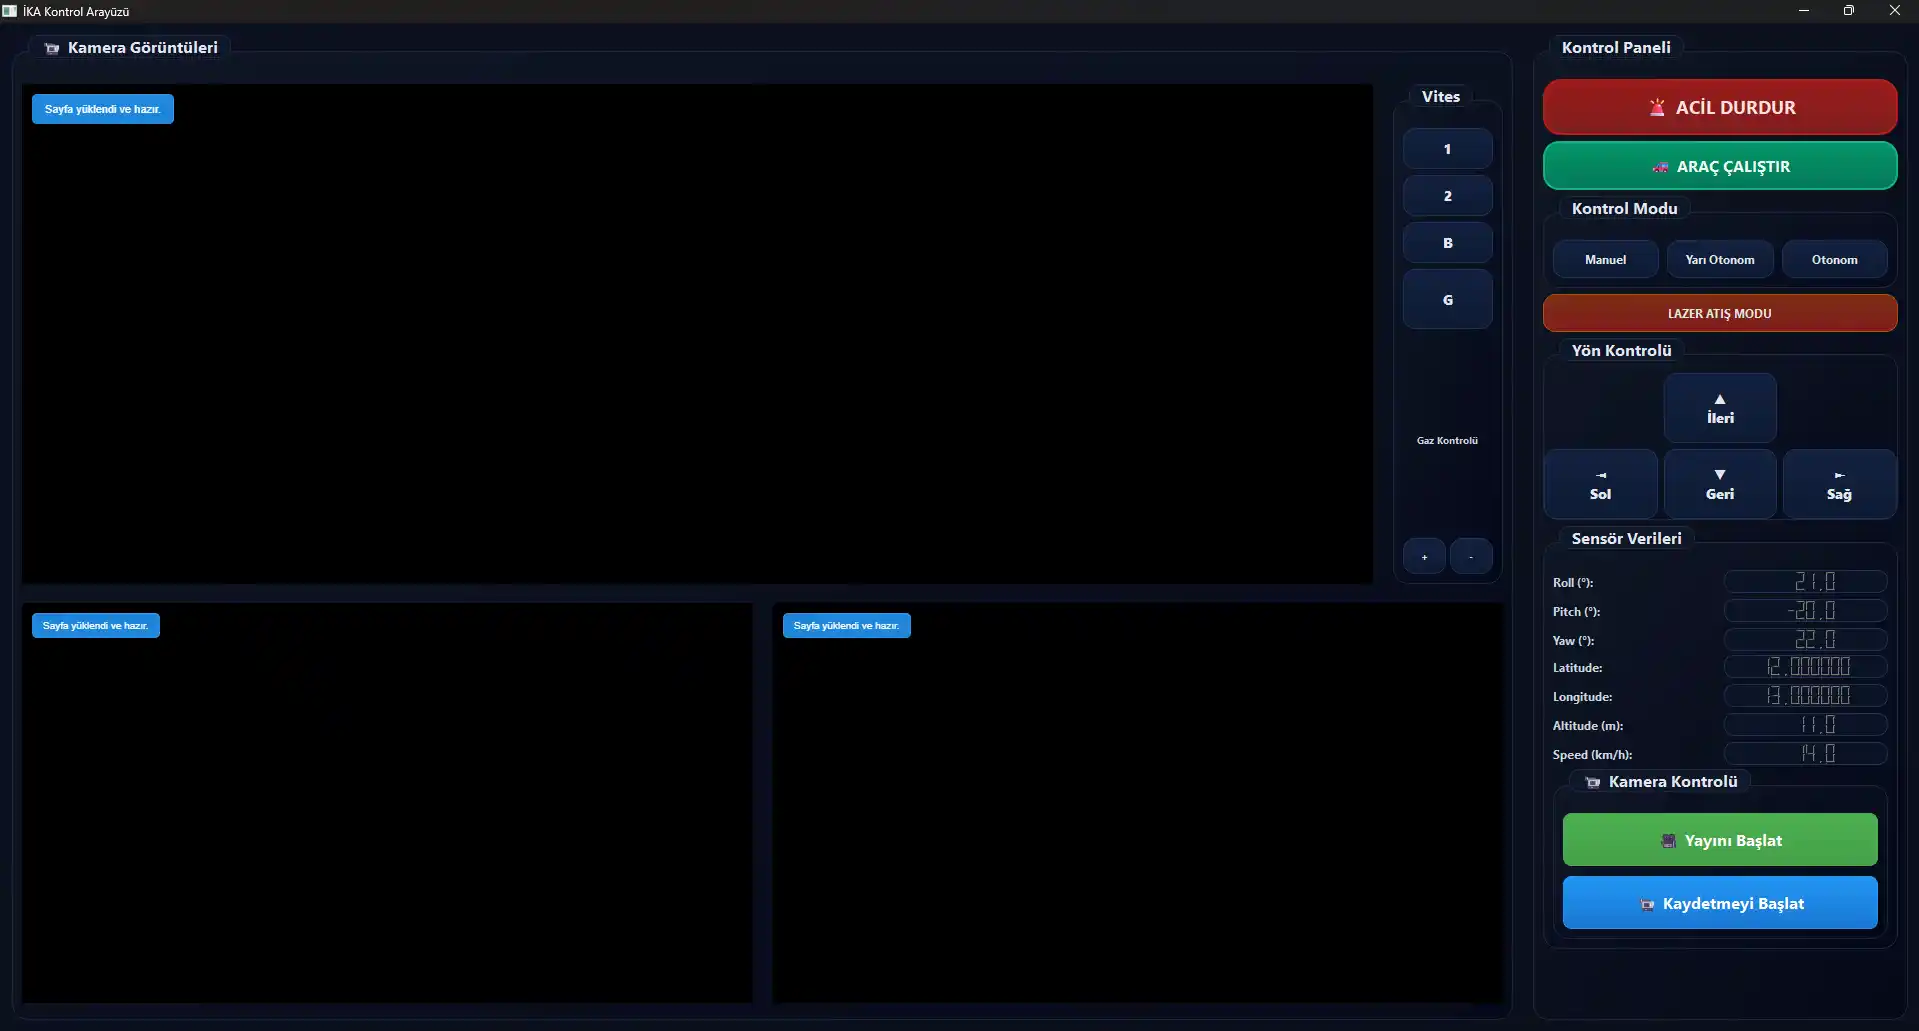
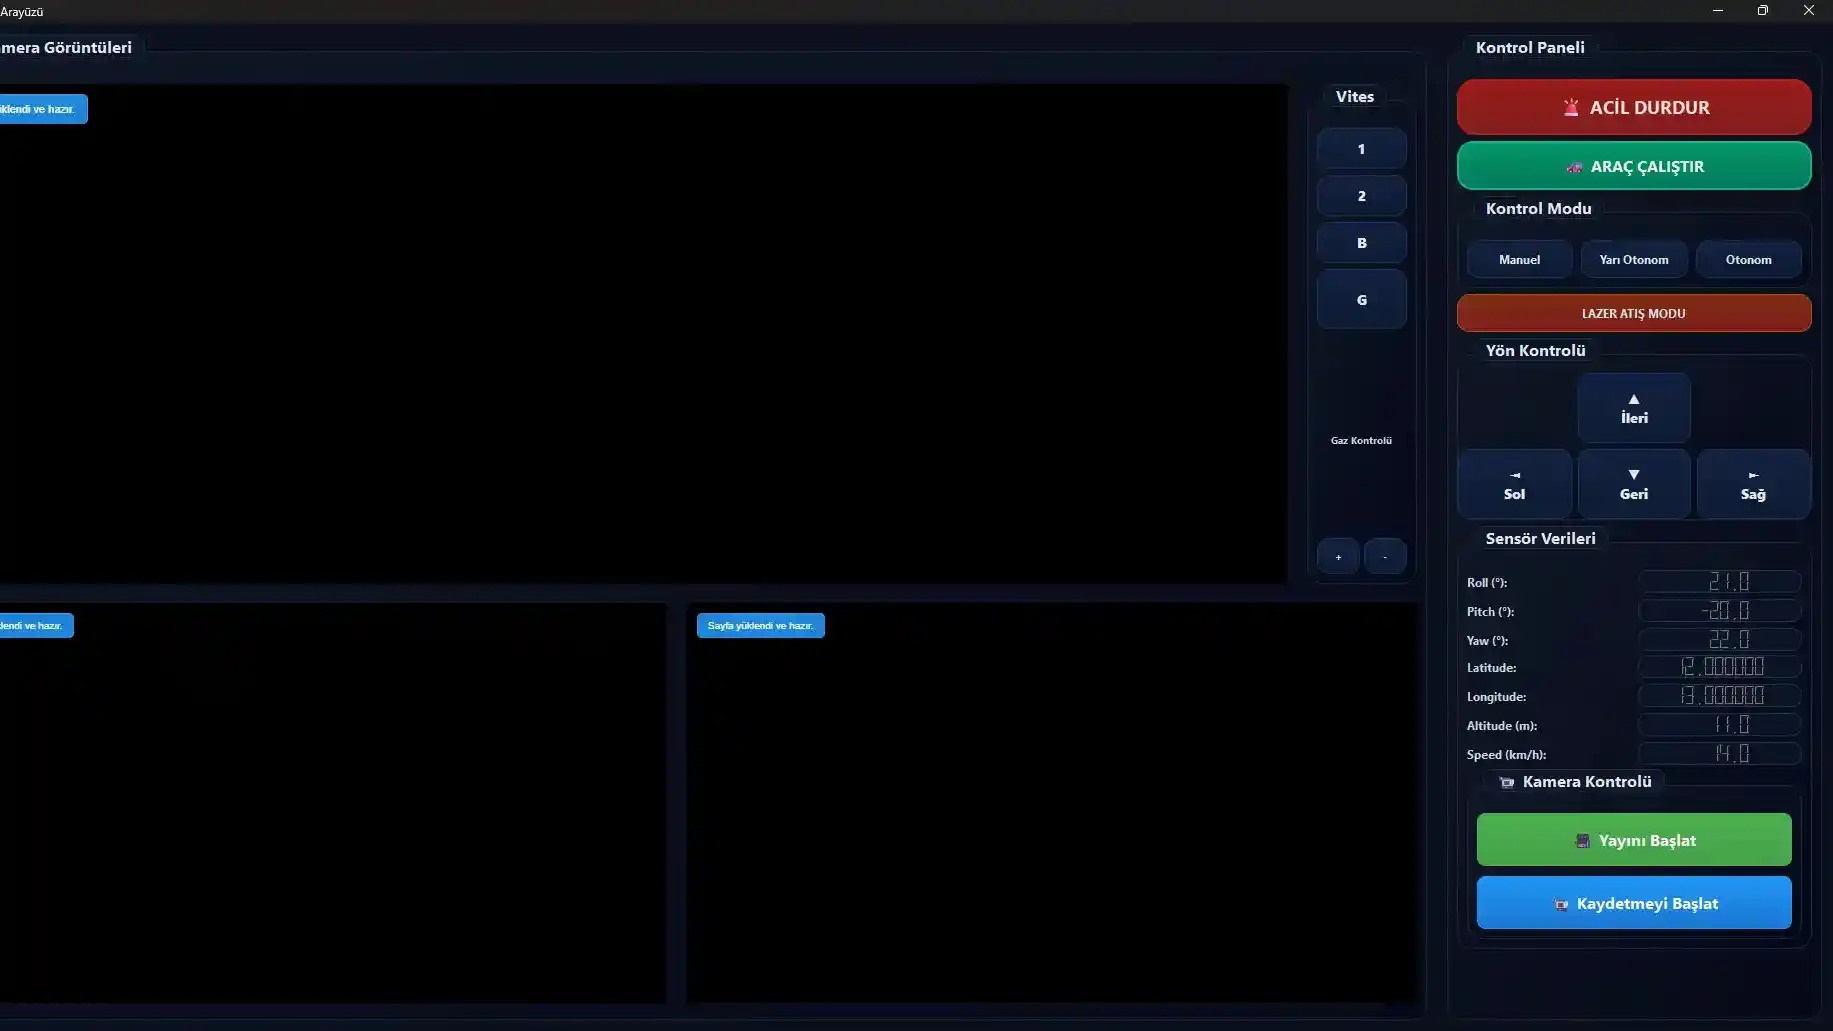
16:9 oranına çevrildi fotolar

diff --git a/src/pages/Portfolyo.js b/src/pages/Portfolyo.js
@@ -235,14 +235,7 @@ const Portfolyo = () => {
       githubLink: "https://github.com/sbugrayy/Farm-Game"
     },
     { 
-      title: "Portfolyo Web Sitesi 1",
-      description: "Kendime ait portfolyo web sitesi. React, Framer Motion, Styled Components kullanılarak geliştirildi.",
-      image: "../../images/logo2.webp",
-      tags: ["React", "JavaScript", "HTML", "CSS", "EmailJS"],
-      githubLink: "https://github.com/sbugrayy/My-Portfolio"
-    },
-    { 
-      title: "Portfolyo Web Sitesi 2",
+      title: "Portfolyo Web Sitesi",
       description: "Musa Yücesan için yapılan portfolyo web sitesi. React, Framer Motion, Styled Components kullanılarak geliştirildi.",
       image: "../../images/portfolyoMusa.webp",
       tags: ["React", "JavaScript", "HTML", "CSS"],
